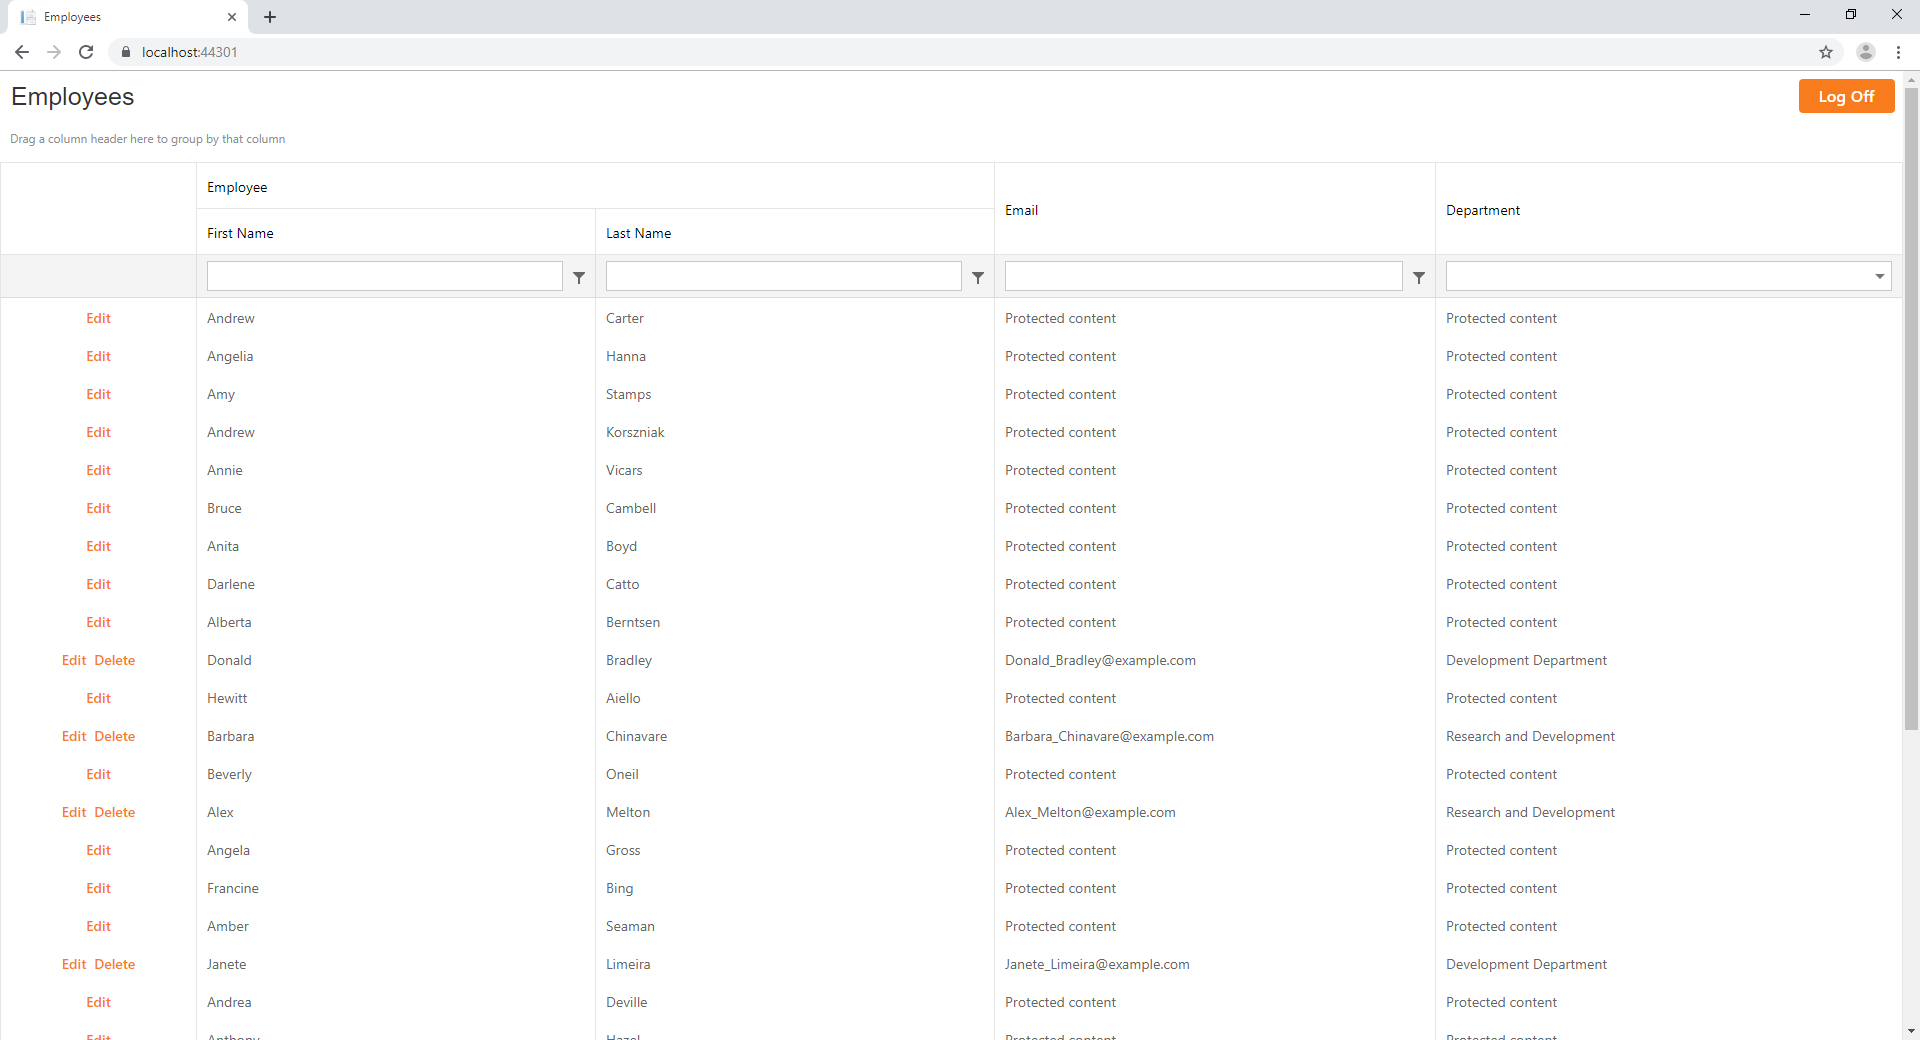
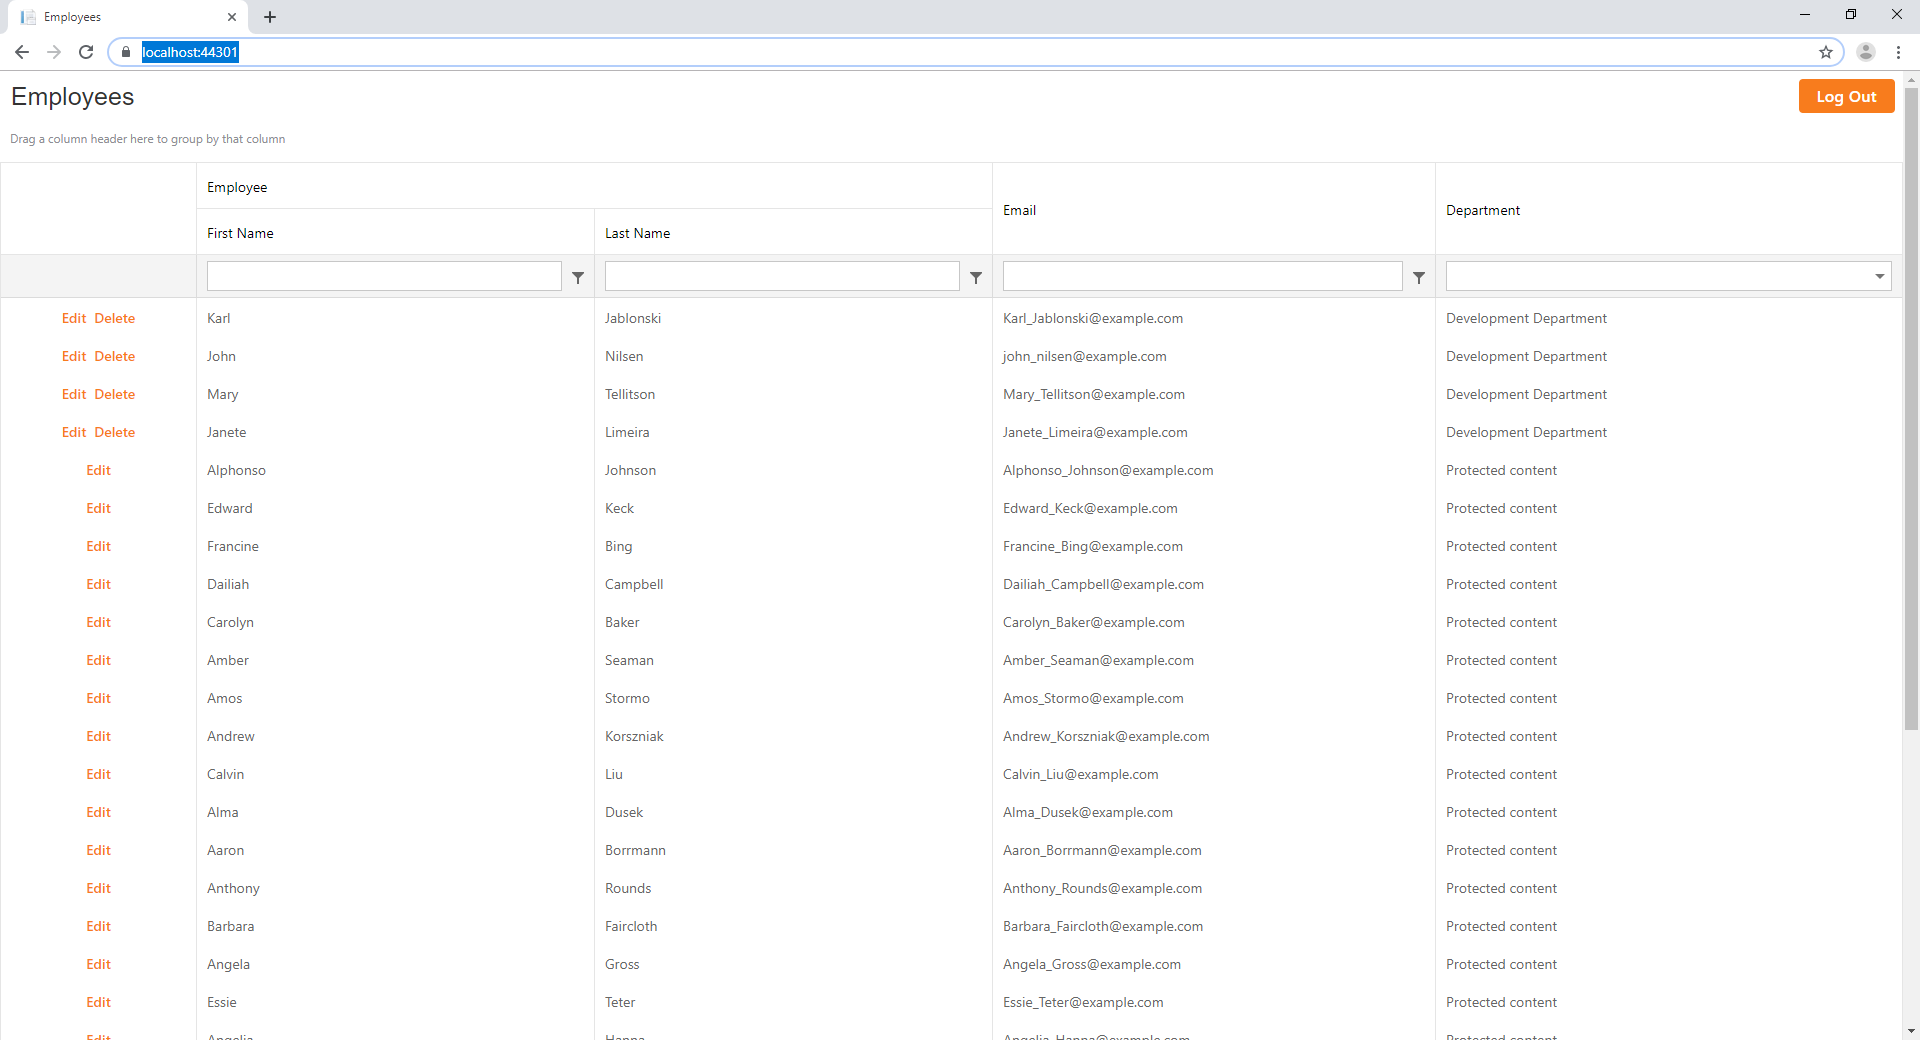
fix logoff to logout

diff --git a/WinForms/CS/MainForm.Designer.cs b/WinForms/CS/MainForm.Designer.cs
@@ -25,7 +25,7 @@
 		private void InitializeComponent() {
 			this.components = new System.ComponentModel.Container();
 			this.ribbonControl1 = new DevExpress.XtraBars.Ribbon.RibbonControl();
-			this.logoffButtonItem = new DevExpress.XtraBars.BarButtonItem();
+			this.logoutButtonItem = new DevExpress.XtraBars.BarButtonItem();
 			this.ribbonPage1 = new DevExpress.XtraBars.Ribbon.RibbonPage();
 			this.ribbonPageGroup1 = new DevExpress.XtraBars.Ribbon.RibbonPageGroup();
 			this.documentManager1 = new DevExpress.XtraBars.Docking2010.DocumentManager(this.components);
@@ -46,7 +46,7 @@
 			this.ribbonControl1.Items.AddRange(new DevExpress.XtraBars.BarItem[] {
 			this.ribbonControl1.ExpandCollapseItem,
 			this.ribbonControl1.SearchEditItem,
-			this.logoffButtonItem});
+			this.logoutButtonItem});
 			this.ribbonControl1.Location = new System.Drawing.Point(0, 0);
 			this.ribbonControl1.MaxItemId = 2;
 			this.ribbonControl1.MdiMergeStyle = DevExpress.XtraBars.Ribbon.RibbonMdiMergeStyle.Always;
@@ -60,11 +60,11 @@
 			// 
 			// logoffButtonItem
 			// 
-			this.logoffButtonItem.Caption = "Log Off";
-			this.logoffButtonItem.Id = 1;
-			this.logoffButtonItem.ImageOptions.SvgImage = global::WindowsFormsApplication.Properties.Resources.Action_Logoff;
-			this.logoffButtonItem.Name = "logoffButtonItem";
-			this.logoffButtonItem.ItemClick += new DevExpress.XtraBars.ItemClickEventHandler(this.LogoffButtonItem_ItemClick);
+			this.logoutButtonItem.Caption = "Log Out";
+			this.logoutButtonItem.Id = 1;
+			this.logoutButtonItem.ImageOptions.SvgImage = global::WindowsFormsApplication.Properties.Resources.Action_Logoff;
+			this.logoutButtonItem.Name = "logoffButtonItem";
+			this.logoutButtonItem.ItemClick += new DevExpress.XtraBars.ItemClickEventHandler(this.LogoutButtonItem_ItemClick);
 			// 
 			// ribbonPage1
 			// 
@@ -76,7 +76,7 @@
 			// ribbonPageGroup1
 			// 
 			this.ribbonPageGroup1.AllowTextClipping = false;
-			this.ribbonPageGroup1.ItemLinks.Add(this.logoffButtonItem);
+			this.ribbonPageGroup1.ItemLinks.Add(this.logoutButtonItem);
 			this.ribbonPageGroup1.Name = "ribbonPageGroup1";
 			this.ribbonPageGroup1.Text = "General";
 			// 
@@ -117,7 +117,7 @@
 		#endregion
 
 		private DevExpress.XtraBars.Ribbon.RibbonControl ribbonControl1;
-		private DevExpress.XtraBars.BarButtonItem logoffButtonItem;
+		private DevExpress.XtraBars.BarButtonItem logoutButtonItem;
 		private DevExpress.XtraBars.Ribbon.RibbonPage ribbonPage1;
 		private DevExpress.XtraBars.Ribbon.RibbonPageGroup ribbonPageGroup1;
 		private DevExpress.XtraBars.Docking2010.DocumentManager documentManager1;

diff --git a/ASP.NET/WebForms/CS/Default.aspx.designer.cs b/ASP.NET/WebForms/CS/Default.aspx.designer.cs
@@ -13,13 +13,13 @@ namespace WebFormsApplication {
     public partial class _Default {
         
         /// <summary>
-        /// LogoffButton control.
+        /// LogoutButton control.
         /// </summary>
         /// <remarks>
         /// Auto-generated field.
         /// To modify move field declaration from designer file to code-behind file.
         /// </remarks>
-        protected global::DevExpress.Web.ASPxButton LogoffButton;
+        protected global::DevExpress.Web.ASPxButton LogoutButton;
         
         /// <summary>
         /// EmployeeGrid control.

diff --git a/WinForms/CS/MainForm.cs b/WinForms/CS/MainForm.cs
@@ -16,7 +16,7 @@ namespace WindowsFormsApplication {
         private void MainForm_Load(object sender, EventArgs e) {
             ShowLoginForm();
         }
-        private void LogoffButtonItem_ItemClick(object sender, DevExpress.XtraBars.ItemClickEventArgs e) {
+        private void LogoutButtonItem_ItemClick(object sender, DevExpress.XtraBars.ItemClickEventArgs e) {
             foreach(Form form in MdiChildren) {
                 form.Close();
             }

diff --git a/ASP.NET/WebForms/CS/Default.aspx.cs b/ASP.NET/WebForms/CS/Default.aspx.cs
@@ -66,7 +66,7 @@ namespace WebFormsApplication {
 				e.Cell.Text = "Protected content";
 			}
 		}
-		protected void LogoffButton_Click(object sender, EventArgs e) {
+		protected void LogoutButton_Click(object sender, EventArgs e) {
 			FormsAuthentication.SignOut();
 			FormsAuthentication.RedirectToLoginPage();
 		}
